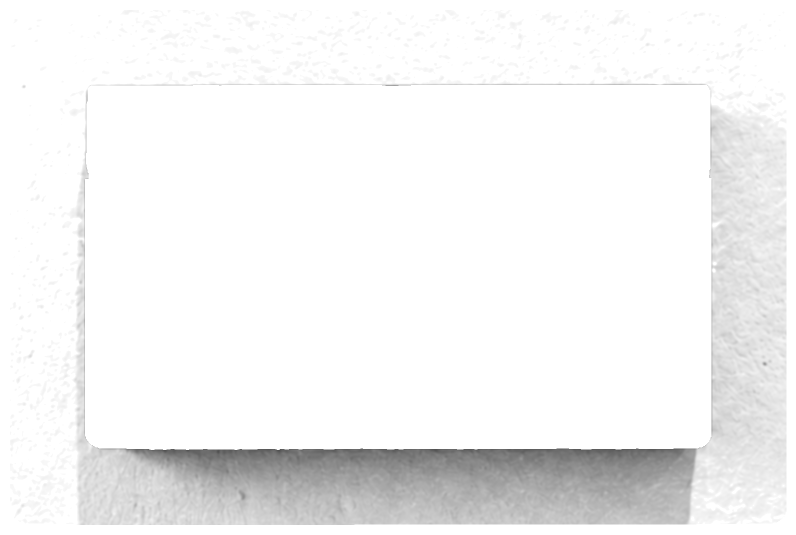
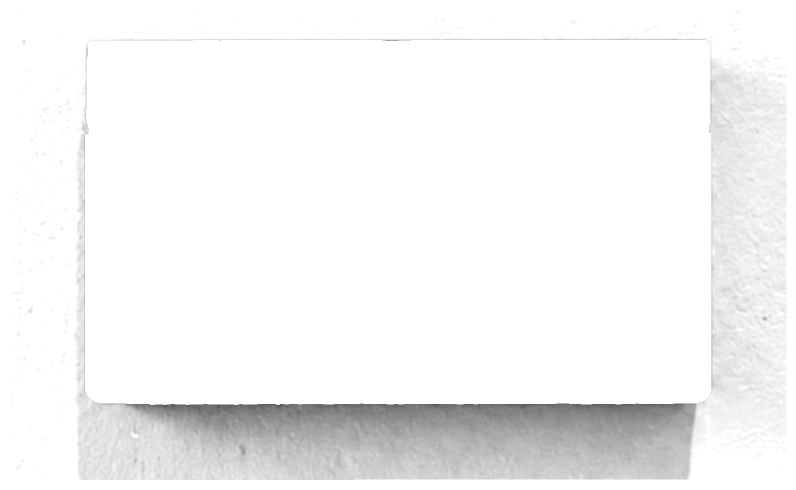
Proxy Media landing: drop frame 2, clean pivots, insert in perspective
Frame 2 is gone from the assets and the timeline; the wall under the tape is
rebuilt from frame 1 alone. The tape tips back as it flies from the wall to
the VCR and hands over to frame 3's tape at the slot. No motion blur on the
camera pivots. The tape now recedes into the slot: it rises to the lip,
shrinks with distance and darkens as it goes in.

Claude-Session: https://claude.ai/code/session_012kYhaHXhcYULFVPG2x5iUV

diff --git a/proxymedia/motion/landing/index.html b/proxymedia/motion/landing/index.html
@@ -72,13 +72,6 @@
       .bleed img {
         position: absolute;
       }
-      #wall {
-        position: absolute;
-        left: 0;
-        top: 0;
-        width: 1920px;
-        height: 1495.5px;
-      }
       #insert {
         /* The slot's lower lip: the tape disappears above this line as it goes in. */
         left: 0;
@@ -89,17 +82,22 @@
       }
       #flyer {
         position: absolute;
-        left: 649px;
-        top: 548px;
-        width: 659.5px;
-        height: 316px;
+        left: 647px;
+        top: 335.5px;
+        width: 630.5px;
+        height: 369px;
         opacity: 0;
       }
-      #flyer img {
+      #flyer-b {
+        /* The tape as photographed at the VCR, at its settle pose; takes over from the flyer. */
         position: absolute;
-        inset: 0;
-        width: 100%;
-        height: 100%;
+        left: 602px;
+        top: 549.5px;
+        width: 694px;
+        height: 230px;
+        transform: scale(1.02);
+        transform-origin: 50% 0;
+        opacity: 0;
       }
       #tv-screen {
         position: absolute;
@@ -126,21 +124,15 @@
     </style>
   </head>
   <body>
-    <div id="root" data-composition-id="main" data-start="0" data-duration="14" data-width="1920" data-height="1080">
+    <div id="root" data-composition-id="main" data-start="0" data-duration="12" data-width="1920" data-height="1080">
       <div id="zoom">
         <div id="cam">
           <div id="rig">
-            <!-- Frames 1 and 2: the tape on the white wall, "Brooklyn, NY 2026" beneath it.
-                 The camera tilts down the wall from frame 1 to frame 2 as the tape comes off. -->
-            <div class="plane" id="plane-wall">
-              <div id="wall" data-bleed="assets/img/wall.webp">
-                <img class="full" src="assets/img/wall.webp" alt="" style="height: 1495.5px" />
-                <img id="tape01-shadow" src="assets/img/tape01-shadow.webp" alt="" style="left: 564px; top: 252.5px; width: 796.5px; height: 535px" />
-                <img id="wall-01" class="full" src="assets/img/wall-01.webp" alt="" />
-                <img id="tape02-shadow" src="assets/img/tape02-shadow.webp" alt="" style="left: 566px; top: 934.5px; width: 825.5px; height: 428px; opacity: 0" />
-                <img id="tape02" src="assets/img/tape02.webp" alt="" style="left: 649px; top: 963.5px; width: 659.5px; height: 316px; opacity: 0" />
-                <img id="tape01" src="assets/img/tape01.webp" alt="" style="left: 647px; top: 335.5px; width: 630.5px; height: 369px" />
-              </div>
+            <!-- Frame 1: the tape on the white wall, "Brooklyn, NY 2026" beneath it. -->
+            <div class="plane" id="plane-wall" data-bleed="assets/img/wall.webp">
+              <img class="full" src="assets/img/wall.webp" alt="" />
+              <img id="tape01-shadow" src="assets/img/tape01-shadow.webp" alt="" style="left: 564px; top: 297.5px; width: 796.5px; height: 490px" />
+              <img id="tape01" src="assets/img/tape01.webp" alt="" style="left: 647px; top: 335.5px; width: 630.5px; height: 369px" />
             </div>
             <!-- Frames 3 to 5: the VCR on the next wall. The tape slides in; the flap closes. -->
             <div class="plane" id="plane-vcr" data-bleed="assets/img/vcr-open.webp">
@@ -162,20 +154,17 @@
       </div>
       <div id="tv-content" data-placeholder="tba"></div>
       <!-- The tape in flight between walls, in front of the lens. -->
-      <div id="flyer">
-        <img id="flyer-a" src="assets/img/tape02.webp" alt="" />
-        <img id="flyer-b" src="assets/img/tape03.webp" alt="" style="opacity: 0" />
-      </div>
+      <img id="flyer" src="assets/img/tape01.webp" alt="" />
+      <img id="flyer-b" src="assets/img/tape03.webp" alt="" />
     </div>
     <script>
       const W = 1920,
         H = 1080,
         F = 1888; // focal length in px, matches #cam perspective
       // Camera pivot between walls, in degrees. Each wall faces the lens; at 36 degrees the
-      // padded walls meet just outside the frame.
+      // bled walls meet just outside the frame.
       const TILT_VCR = 36,
         TILT_TV = 36;
-      const WALL_DROP = 415.5; // frame 2 sits 831 px (4K) further down the wall than frame 1
       // frame 7 placed on frame 6: translate, rotation (deg), scale
       const SCREEN = { x: 647.05, y: 314.5, r: 0.42, s: 0.32362 };
 
@@ -213,16 +202,7 @@
       gsap.set("#plane-tv", { rotationX: TILT_VCR + TILT_TV, transformOrigin: pivot });
       gsap.set("#tape01", { transformPerspective: F, transformOrigin: "50% 50%" });
 
-      // Motion blur while the camera whips between walls, as a function of time. Seeking
-      // suppresses tween callbacks, so blur and zoom are applied from modifiers instead.
-      const blur = { v: 0 };
-      const blurTargets = [...document.querySelectorAll(".plane"), document.getElementById("flyer")];
-      const applyBlur = (v) => {
-        const f = v > 0.1 ? `blur(${v.toFixed(2)}px)` : "none";
-        for (const el of blurTargets) el.style.filter = f;
-        return v;
-      };
-
+      // Seeking suppresses tween callbacks, so the punch-in is applied from a modifier.
       // Punch-in: z runs 0..1; scale grows exponentially and frame 7's centre is carried to the
       // frame centre, so z = 1 lands exactly on frame 7's framing.
       const zoom = { z: 0 };
@@ -245,48 +225,40 @@
 
       const tl = gsap.timeline({ paused: true });
 
-      // A. Frame 1 to frame 2: the camera tilts down the wall while the tape comes off it,
-      //    turning toward the lens. Its wall shadow loosens and fades.
-      tl.to("#wall", { y: -WALL_DROP, duration: 2.6, ease: "power2.inOut" }, 0.7);
-      tl.to("#wall-01", { opacity: 0, duration: 1.8, ease: "power1.inOut" }, 1.2);
-      tl.to("#tape01-shadow", { opacity: 0, x: -10, y: 18, duration: 1.0, ease: "power1.in" }, 0.7);
-      tl.to("#tape01", { x: 16.5, y: 601.5, rotation: -7.5, rotationX: 22, duration: 2.5, ease: "power2.inOut" }, 0.8);
-      tl.to("#tape02-shadow", { opacity: 1, duration: 0.7, ease: "power1.out" }, 2.6);
-      tl.to("#tape02", { opacity: 1, duration: 0.4, ease: "none" }, 2.9);
-      tl.to("#tape01", { opacity: 0, duration: 0.4, ease: "none" }, 2.9);
+      // A. The tape lifts off the wall; its shadow loosens and fades.
+      tl.to("#tape01", { scale: 1.05, y: -6, duration: 0.8, ease: "power2.out" }, 0.6);
+      tl.to("#tape01-shadow", { opacity: 0, x: -10, y: 18, duration: 0.9, ease: "power1.in" }, 0.6);
 
       // B. The camera pivots down to the VCR wall; the tape flies in front of the lens to the slot.
-      tl.set("#tape02", { opacity: 0 }, 3.7);
-      tl.set("#flyer", { opacity: 1 }, 3.7);
-      tl.to("#tape02-shadow", { opacity: 0, duration: 0.6, ease: "power1.in" }, 3.7);
-      tl.to("#rig", { rotationX: -TILT_VCR, duration: 2.7, ease: "power2.inOut" }, 3.7);
-      tl.to(blur, { v: 9, duration: 1.35, ease: "power2.in", modifiers: { v: (v) => applyBlur(+v) } }, 3.7);
-      tl.to(blur, { v: 0, duration: 1.35, ease: "power2.out", modifiers: { v: (v) => applyBlur(+v) } }, 5.05);
-      tl.to("#flyer", { left: 602, top: 549.5, width: 694, height: 230, scale: 1.02, duration: 2.5, ease: "power2.inOut" }, 3.7);
-      tl.to("#flyer-b", { opacity: 1, duration: 0.7, ease: "none" }, 4.5);
-      tl.set("#flyer-a", { opacity: 0 }, 5.2);
-      tl.set("#flyer", { opacity: 0 }, 6.2);
-      tl.set("#tape03", { opacity: 1, y: 16, scale: 1.02 }, 6.2);
-      tl.to("#tape03", { y: 0, scale: 1, duration: 0.6, ease: "power2.out" }, 6.2);
-      tl.to("#tape03-shadow", { opacity: 1, duration: 1.0, ease: "power1.out" }, 5.8);
+      tl.set("#tape01", { opacity: 0 }, 1.4);
+      tl.set("#flyer", { opacity: 1, scale: 1.05, y: -6, transformPerspective: F, transformOrigin: "50% 50%" }, 1.4);
+      tl.to("#rig", { rotationX: -TILT_VCR, duration: 2.6, ease: "power2.inOut" }, 1.4);
+      // It tips back to lie flat as it reaches the slot: its face foreshortens to the top face
+      // seen in frame 3, then hands over to frame 3's own tape.
+      tl.to("#flyer", { x: -13, y: 86, rotationX: 64, scale: 1.03, duration: 2.6, ease: "power2.inOut" }, 1.4);
+      tl.to("#flyer-b", { opacity: 1, duration: 0.25, ease: "none" }, 3.9);
+      tl.to("#flyer", { opacity: 0, duration: 0.2, ease: "none" }, 4.0);
+      tl.set("#flyer-b", { opacity: 0 }, 4.2);
+      tl.set("#tape03", { opacity: 1, y: 16, scale: 1.02, transformOrigin: "50% 0%", filter: "brightness(1)" }, 4.2);
+      tl.to("#tape03", { y: 0, scale: 1, duration: 0.6, ease: "power2.out" }, 4.2);
+      tl.to("#tape03-shadow", { opacity: 1, duration: 1.0, ease: "power1.out" }, 3.8);
 
       // C. The tape slides into the slot; the flap closes behind it.
-      tl.to("#tape03", { y: -240, scaleX: 0.97, duration: 1.4, ease: "power2.inOut" }, 7.1);
-      tl.to("#tape03-shadow", { opacity: 0, y: -24, duration: 0.8, ease: "power1.in" }, 7.1);
-      tl.to("#vcr-closed", { opacity: 1, duration: 0.35, ease: "power1.inOut" }, 8.5);
+      // It travels back into the machine: it rises toward the slot and shrinks with distance
+      // (scaled from its top edge, which sits on the slot's lip), darkening as it enters.
+      tl.to("#tape03", { y: -232, scale: 0.84, filter: "brightness(0.55)", duration: 1.5, ease: "power2.inOut" }, 5.1);
+      tl.to("#tape03-shadow", { opacity: 0, y: -24, duration: 0.8, ease: "power1.in" }, 5.1);
+      tl.to("#vcr-closed", { opacity: 1, duration: 0.35, ease: "power1.inOut" }, 6.5);
 
       // D. The camera pivots down to the other wall, the TV.
-      tl.to("#rig", { rotationX: -(TILT_VCR + TILT_TV), duration: 2.0, ease: "power2.inOut" }, 9.2);
-      tl.to(blur, { v: 10, duration: 1.0, ease: "power2.in", modifiers: { v: (v) => applyBlur(+v) } }, 9.2);
-      tl.to(blur, { v: 0, duration: 1.0, ease: "power2.out", modifiers: { v: (v) => applyBlur(+v) } }, 10.2);
+      tl.to("#rig", { rotationX: -(TILT_VCR + TILT_TV), duration: 2.0, ease: "power2.inOut" }, 7.2);
 
       // E. Punch in on the screen until it fills the frame.
-      tl.to(zoom, { z: 1, duration: 1.9, ease: "power2.inOut", modifiers: { z: (z) => applyZoom(+z) } }, 11.5);
-      tl.to("#tv-screen", { opacity: 1, duration: 0.6, ease: "none" }, 12.6);
-      tl.to("#tv-content", { opacity: 1, duration: 0.4, ease: "none" }, 13.5);
-      tl.set({}, {}, 14);
+      tl.to(zoom, { z: 1, duration: 1.9, ease: "power2.inOut", modifiers: { z: (z) => applyZoom(+z) } }, 9.5);
+      tl.to("#tv-screen", { opacity: 1, duration: 0.6, ease: "none" }, 10.6);
+      tl.to("#tv-content", { opacity: 1, duration: 0.4, ease: "none" }, 11.5);
+      tl.set({}, {}, 12);
 
-      applyBlur(0);
       applyZoom(0);
       window.__timelines = window.__timelines || {};
       window.__timelines["main"] = tl;

diff --git a/proxymedia/motion/landing/assets/source/prep_layers.py b/proxymedia/motion/landing/assets/source/prep_layers.py
@@ -4,7 +4,7 @@ from scipy.ndimage import binary_fill_holes
 K='k4/'; O='o4/'
 import os; os.makedirs(O,exist_ok=True)
 rd=lambda f: cv2.imread(K+f)
-f01,f02,f03,f04,f05,f06,f07=[rd(f) for f in ['01-proxy-media-vhs-4k.png','02-tape-transition-4k.png','03-tape-before-vcr-4k.png','04-vcr-empty-slot-4k.png','05-vcr-tape-loaded-4k.png','06-sony-tv-4k.png','07-tv-screen-closeup-4k.png']]
+f01,f03,f04,f05,f06,f07=[rd(f) for f in ['01-proxy-media-vhs-4k.png','03-tape-before-vcr-4k.png','04-vcr-empty-slot-4k.png','05-vcr-tape-loaded-4k.png','06-sony-tv-4k.png','07-tv-screen-closeup-4k.png']]
 H,W=2160,3840
 def membrane(img, hole, k=16, iters=2500):
     bl=cv2.GaussianBlur(img,(0,0),k/2).astype(np.float32)
@@ -50,42 +50,17 @@ def save_rgba(path, img, a, box):
 def bbox(m,pad=4):
     ys,xs=np.where(m); return [max(xs.min()-pad,0),max(ys.min()-pad,0),min(xs.max()+pad+1,W),ys.max()+pad+1]
 meta={}
-# ---- wall: 01 at y=0, 02 at y=DY (text-registered) ----
-DY,DX=831,2
-CH=H+DY
-t01=dark_mask(f01); t02=dark_mask(f02)
-canvas=np.zeros((CH,W,3),np.uint8)
-s02=np.zeros_like(f02); s02[:,DX:]=f02[:,:W-DX]; s02[:,:DX]=f02[:,:1]
-canvas[DY:]=s02
-# exposure: match 01 to 02 over clean overlap rows
-ov=slice(900,1600); colmask=np.ones(W,bool); colmask[1200:2650]=False
-a1=f01[ov][:,colmask].reshape(-1,3).astype(np.float32).mean(0); a2=canvas[ov][:,colmask].reshape(-1,3).astype(np.float32).mean(0)
-gain=a2/a1; print('gain 01->02',gain); meta['gain01']=gain.tolist()
-g01=np.clip(f01*gain,0,255).astype(np.uint8)
-# above the 02 frame: 02's own wall mirrored (only seen under the 01 frame as it fades)
-canvas[:DY]=canvas[DY:2*DY][::-1]
-# tape02, its shadow and the warm bounce light beside it
-t02c=np.zeros((CH,W),bool); t02c[DY:, DX:]=t02[:, :W-DX]
-yb=np.where(t02c.any(1))[0]; xb=np.where(t02c.any(0))[0]
-holeB=np.zeros((CH,W),bool); holeB[yb.min()-40:min(yb.max()+300,CH), xb.min()-160:xb.max()+330]=True
-canvas=fill(canvas,holeB,axis=1)
-cv2.imwrite(O+'wall-clean.png',canvas)
-# 01 over the clean wall, with a feathered hole where the tape and its shadow are
-holeT1=cv2.dilate(t01.astype(np.uint8),np.ones((301,301),np.uint8))>0
-holeT1[t01.any(1).nonzero()[0].min()-150:t01.any(1).nonzero()[0].max()+150, :t01.any(0).nonzero()[0].max()+260] |= holeT1[t01.any(1).nonzero()[0].min()-150:t01.any(1).nonzero()[0].max()+150, :t01.any(0).nonzero()[0].max()+260]
-a1=1-np.clip(cv2.GaussianBlur(holeT1.astype(np.float32),(0,0),40)*1.6,0,1); a1[t01]=0
-save_rgba(O+'wall-01.png', g01, a1, [0,0,W,H])
-cl01=canvas[:H]
-sh1=shadow(g01, cl01, holeT1.astype(np.float32), t01)
+# ---- wall: frame 1 alone. The tape and its shadow are lifted off and the wall under them
+#      rebuilt from frame 1's own plaster (smooth light from the surround, texture mirrored in).
+t01=dark_mask(f01)
+ty=np.where(t01.any(1))[0]; tx=np.where(t01.any(0))[0]
+hole=np.zeros((H,W),bool); hole[ty.min()-60:ty.max()+200, tx.min()-170:tx.max()+260]=True
+clean=fill(f01,hole,axis=1,feather=30)
+cv2.imwrite(O+'wall-clean.png',clean)
+reg=(cv2.dilate(t01.astype(np.uint8),np.ones((301,301),np.uint8))>0).astype(np.float32)*hole
+sh1=shadow(f01, clean, reg, t01)
 b=bbox(sh1>0,20); save_rgba(O+'tape01-shadow.png', np.zeros_like(f01), sh1, b); meta['tape01_shadow']=b
-a=cv2.GaussianBlur(t01.astype(np.float32),(0,0),1.2); b=bbox(t01); save_rgba(O+'tape01.png', g01, a, b); meta['tape01']=b
-# tape02 and shadow (in 02 coords, shifted into canvas)
-cl02=canvas[DY:]
-reg2=(cv2.dilate(t02c[DY:].astype(np.uint8),np.ones((301,301),np.uint8))>0).astype(np.float32)
-sh2=shadow(s02, cl02, reg2, t02c[DY:])
-b=bbox(sh2>0,20); save_rgba(O+'tape02-shadow.png', np.zeros_like(f01), sh2, b); meta['tape02_shadow']=[b[0],b[1]+DY,b[2],b[3]+DY]
-a=cv2.GaussianBlur(t02c[DY:].astype(np.float32),(0,0),1.2); b=bbox(t02c[DY:]); save_rgba(O+'tape02.png', s02, a, b); meta['tape02']=[b[0],b[1]+DY,b[2],b[3]+DY]
-meta['wall']={'h':CH,'dy':DY}
+a=cv2.GaussianBlur(t01.astype(np.float32),(0,0),1.2); b=bbox(t01); save_rgba(O+'tape01.png', f01, a, b); meta['tape01']=b
 # ---- VCR ----
 A4=np.float32([[1.00043,-8e-05,-1.44408],[8e-05,1.00043,-1.37641]]); A5=np.float32([[0.99986,0.00039,1.10238],[-0.00039,0.99986,2.02451]])
 w4=cv2.warpAffine(f04,A4,(W,H),borderMode=cv2.BORDER_REPLICATE); w5=cv2.warpAffine(f05,A5,(W,H),borderMode=cv2.BORDER_REPLICATE)
